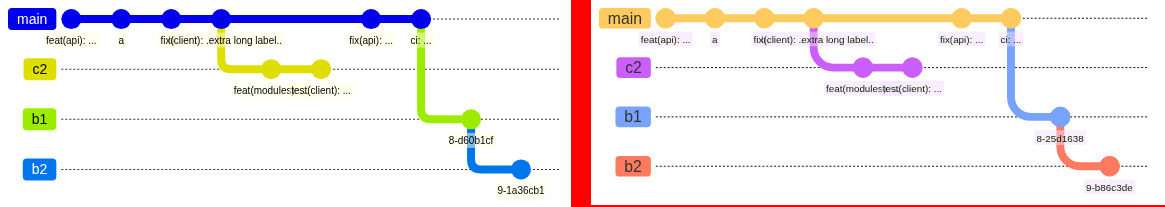
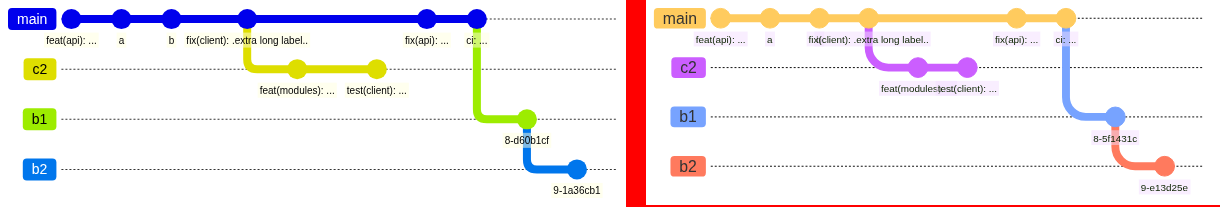
gitgraph: space commits so unrotated labels clear their lane neighbour

diff --git a/src/d_gitgraph.c b/src/d_gitgraph.c
@@ -197,6 +197,21 @@ DIAG_FN(gitgraph_render) {
         }
         ncol = fmax(ncol, col[i] + 1);
     }
+    if (dir == 0 && !rot && !par_c && cm.n) { /* deviate from mermaid: horizontal labels never overlap their lane neighbour */
+        double *lx = ANEW(a, double, 2 * br.n + 2);
+        if (!lx) return CMM_ERR_NOMEM;
+        for (size_t l = 0; l < br.n; l++) lx[2 * l] = -HUGE_VAL, lx[2 * l + 1] = 0;
+        double x = 0;
+        for (size_t i = 0; i < cm.n; i++) {
+            uint32_t l = cm.v[i].lane;
+            double w = cm.v[i].type == C_CHERRY ? 0 : text_width(cm.v[i].id, 10) + 4;
+            if (i) x += STEP;
+            if (l < br.n && lx[2 * l] > -HUGE_VAL) x = fmax(x, lx[2 * l] + (lx[2 * l + 1] + w) / 2 + 8);
+            col[i] = x / STEP;
+            if (l < br.n) lx[2 * l] = x, lx[2 * l + 1] = w;
+        }
+        ncol = col[cm.n - 1] + 1;
+    }
     double plen = p0 + ncol * STEP; /* branch lines end 40 past the last commit */
     double lanesep = dir == 0 ? LANE : (bnw + 30 > LANE ? bnw + 30 : LANE);
     /* lane offsets: a lane whose rotated commit labels hang deeper than the default gap pushes the
